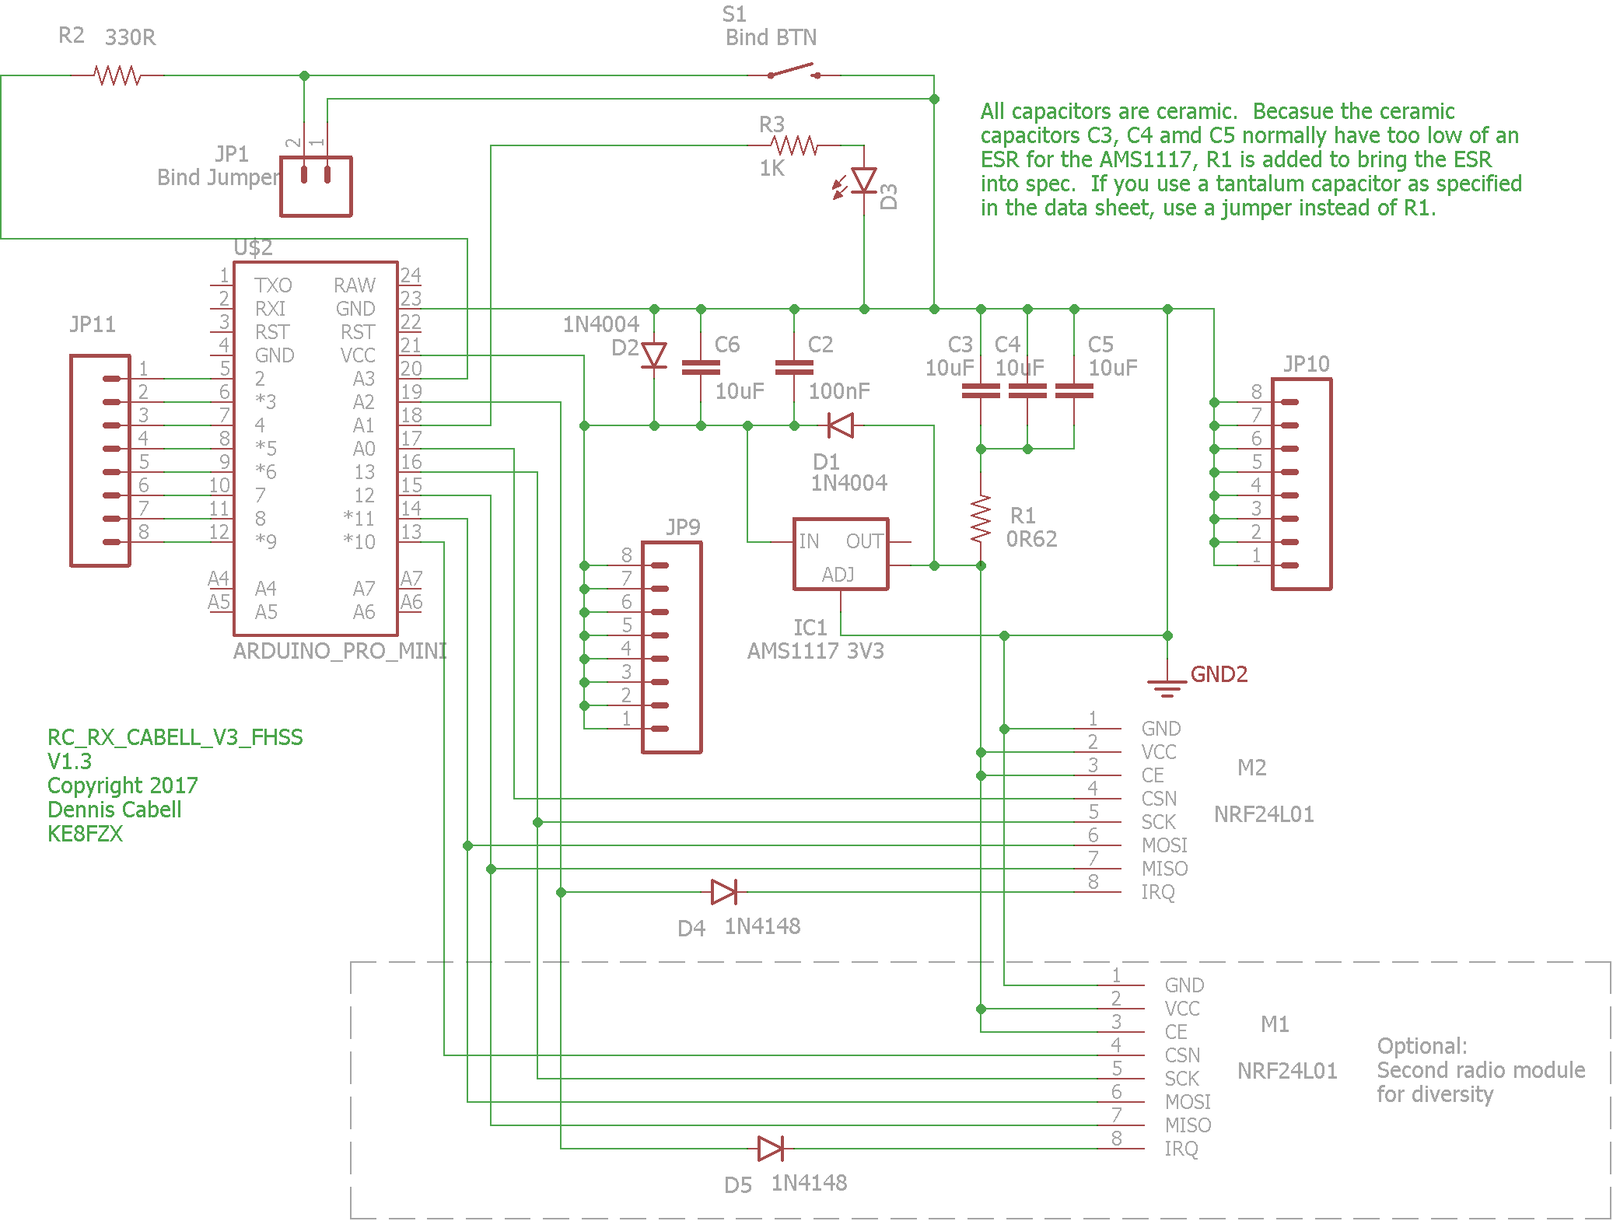
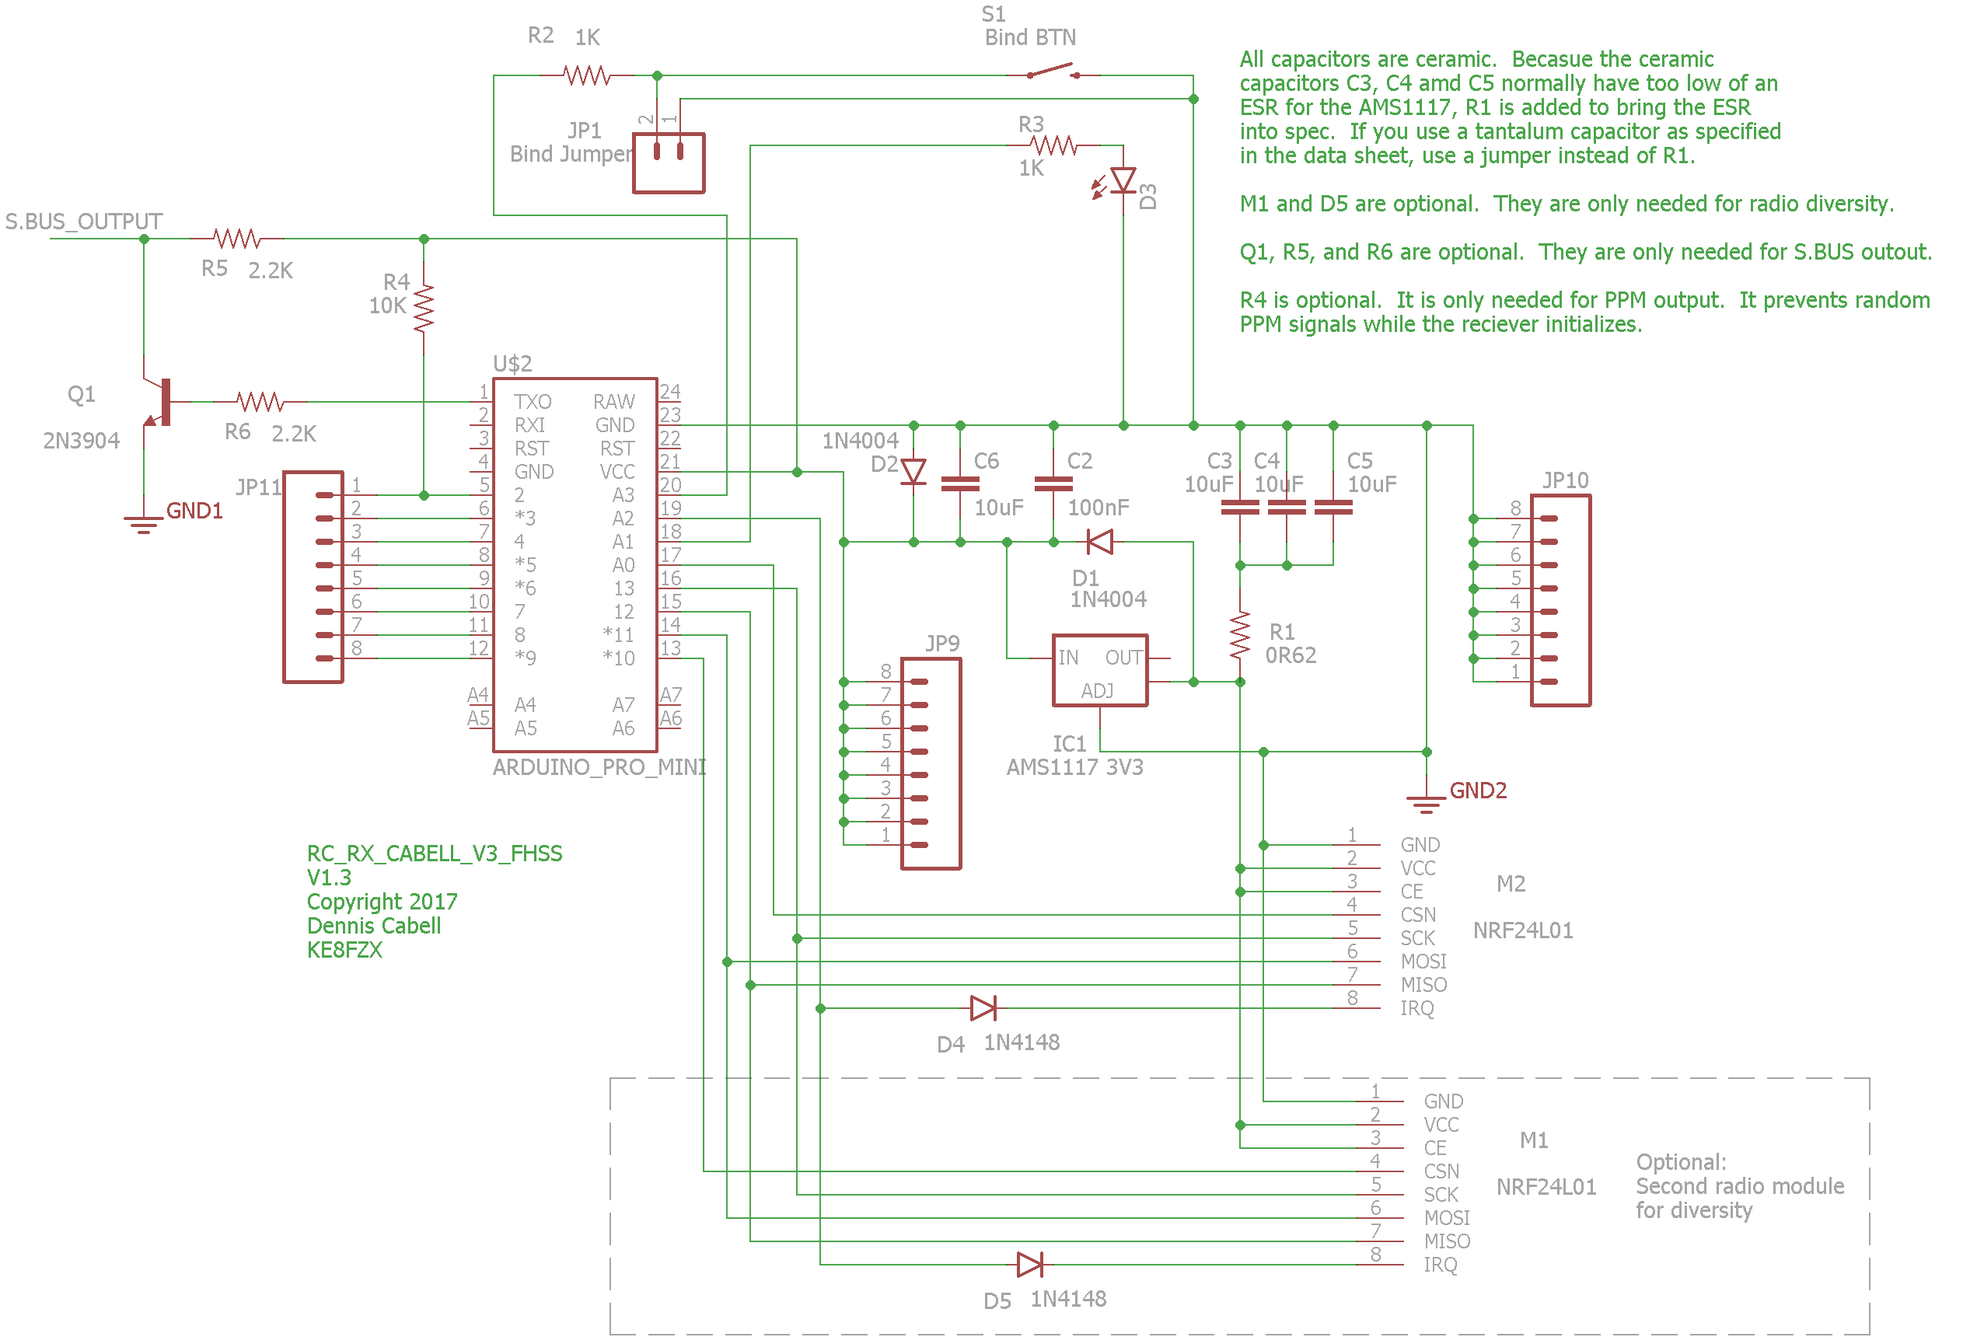
Updated diversity scematic for SBUS

diff --git a/README.md b/README.md
@@ -1,28 +1,28 @@
 # RC_RX_CABELL_V3_FHSS
 ## Background
 RC_RX_CABELL_V3_FHSS is an open source receiver for remote controlled vehicles.  Developed by Dennis Cabell (KE8FZX)
-The hardware for this receiver is an Arduino Pro Mini (using an ATMEGA328P) and an NRF24L01+ module.  Both are inexpensively available on-line.  Be sure to get the version of a Pro Mini that has pins A4, A5, A6 and A7 broken out.
+The hardware for this receiver is an Arduino Pro Mini (using a 5V ATMEGA328P at 16 Mhz) and one or two NRF24L01+ modules.  Both are inexpensively available on-line.  Be sure to get the version of a Pro Mini that has pins A4, A5, A6 and A7 broken out.
 
 ~~The transmitter side of this RC protocol is in the Multi-protocol TX Module project at [https://github.com/pascallanger/DIY-Multiprotocol-TX-Module]( https://github.com/pascallanger/DIY-Multiprotocol-TX-Module).~~
-Transmitter code has not yet been merged into Multiprotocol.  To try this out, please use the soligen2010 fork of MultiProtocol at [https://github.com/soligen2010/DIY-Multiprotocol-TX-Module]( https://github.com/soligen2010/DIY-Multiprotocol-TX-Module)
+Transmitter code has not yet been merged into Multiprotocol.  To try this out, please use the soligen2010 fork of MultiProtocol at [https://github.com/soligen2010/DIY-Multiprotocol-TX-Module]( https://github.com/soligen2010/DIY-Multiprotocol-TX-Module).
 
 ## The Protocol
 The protocol used is named CABELL_V3 (the third version, but the first version publicly released).  It is a FHSS protocol using the NRF24L01+ 2.4 GHz transceiver.  45 channels are used from 2.403 through 2.447 GHz.  The reason for using 45 channels is to keep operation within the overlap area between the 2.4 GHz ISM band (governed in the USA by FCC part 15) and the HAM portion of the band (governed in the USA by FCC part 97).  This allows part 15 compliant use of the protocol, while allowing licensed amateur radio operators to operate under the less restrictive part 97 rules if desired.
 
-Each transmitter is assigned a random ID (this is handled by the Multi-protocol TX Module) based on this ID one of 362880 possible channel sequences is used for the frequency hopping.  The hopping pattern algorithm ensures that each hop moves at least 9 channels from the previous channel.  One packet is sent every 3 milliseconds, changing channels with each packet. All 45 channels are used equally.
+Each transmitter is assigned a random ID (this is handled by the Multi-protocol TX Module) based on this ID one of 362880 possible channel sequences is used for the frequency hopping.  The hopping pattern algorithm ensures that each hop moves at least 9 channels from the previous channel.  One packet is sent every 3 - 4 milliseconds (depending on options chosen), changing channels with each packet. All 45 channels are used equally.
 
-The CABELL_V3 protocol can be configured to send between 4 and 16 RC channels, however this receiver software is currently only capable of outputting up to 8 channels.  This is because only 8 channels were conveniently laid out on the Arduino Pro Mini, and more than 8 channels over PPM would be too slow.  Future serial output methods (SBus?) will hopefully allow all 16 channels to be used.
+The CABELL_V3 protocol can be configured to send between 4 and 16 RC channels, however this receiver software is currently only capable of outputting up to 8 channels via PWN or PPM.  This is because only 8 channels were conveniently laid out on the Arduino Pro Mini, and more than 8 channels over PPM would be too slow.  SBUS output allows all 16 channels to be used.
 
 I recommend reducing the number of channels as much as possible based on what your model requires.  Fewer channels will use a smaller packet size, which improves transmission reliability (fewer bytes sent means less opportunity for errors).
 
 The protocol also assigns each model a different number so one model setting does not control the wrong model.  The protocol can distinguish up to 255 different models, but be aware that the multiprotocol transmitter software only does 16.
 
 ## Hardware
-An Arduino Pro Mini and an NRF24L01+ module are needed for this receiver.  Be sure to get the version of a Pro Mini that has pins A4 and A5 broken out (and A6, A7 too for telemetry analog inputs).  The hardware folder contains a schematic and a PCB layout using a single transceiver module; however this version of the PCB has not been tested.  I am still using the previous version of the PCB and modifying it to implement the changes included in the new version. If anyone tries this PCB version, please open an issue let me know how it works.
+A 5V 16Mhz Arduino Pro Mini and one or 2 NRF24L01+ modules are needed for this receiver.  Be sure to get the version of a Pro Mini that has pins A4 and A5 broken out (and A6, A7 too for telemetry analog inputs).  The hardware folder contains a schematic and a PCB layout using a single transceiver module for PWN or PPM output; however, this version of the PCB has not been tested.  I am still using the previous version of the PCB and modifying it to implement the changes included in the new version. If anyone tries this PCB version, please open an issue let me know how it works. 
 
-There is also a schematic for using 2 NRF24L01 modules for diversity.  If anyone designs a board for this, please contribute it.
+There is also a schematic for using 2 NRF24L01 modules for diversity.  If anyone designs a board for this, please contribute it.  This schematic also has the signal inverter needed for SBUS.
 
-The PA+LNA versions of the NRF24L01+ module provide more receiver range and reliability than the non PA+LNA versions, However the less expensive modules also work OK if the on-board antenna is replaced with a better antenna, although randomly some units see to work well and others not so well.  I recommend range testing each module.  These modules are also typically unshielded, but work better when shielded.  Here is an outline of the modifications (TODO: add pictures)
+The PA+LNA versions of the NRF24L01+ module provide more receiver range and reliability than the non PA+LNA versions, However the less expensive modules also work OK if the on-board antenna is replaced with a better antenna, although randomly some units seem to work well and others not so well.  I recommend range testing each module.  These modules are also typically unshielded, but work better when shielded.  Here is an outline of the modifications (TODO: add pictures)
 
 #### Antenna
 * For the PA_LNA module that has an SMA Connector, remove the connector. A small butane torch to heat the connector works well.  When the solder melts, it pulls right off 
@@ -34,34 +34,37 @@ The PA+LNA versions of the NRF24L01+ module provide more receiver range and reli
 * Solder the coax to the board.  Use hot glue to fix the coax to the board as strain relief.
 * On the other end of the coax, strip back and remove the braided ground conductor to leave the center wire exposed to form the antenna. Leave the inner wire insulation on.
 
-I am no expert, but based on the best understand I have been able to achieve on the theory, using RG-178 or RG-316 (both have speed factor of 69.5) the calculated theoretical lengths to use are:
+I am no expert, but based on the best understand I have been able to achieve on the theory, using RG-178 or RG-316 (both have speed factor of 69.5) the calculated theoretical coax lengths to use are:
 * For the shielded portion of the coax, ideally make the length a multiple of 42.5 mm.  170mm seems like a good length. 
 * The length of the antenna at the end should theoretically be 32.5mm (based on center frequency of 2.425 GHz.  I don’t have the proper equipment to verify these lengths, experiment for what works best for you.  My tests showed 32mm seems to work better than 32.5 for a monopole antenna.
 
-The antennas that come with the PA/LNA modules on EBay are often not very good.  Get a good antenna for yout transmitter.  For the transmitter I use a 5dbi antenna constructed as recommend by Andrew McNeil at https://www.youtube.com/watch?v=bs8hvXGJdhM
+The antennas that come with the PA/LNA modules on EBay are often not very good.  Get a good antenna for your transmitter.  For the transmitter I use a 5dbi antenna constructed as recommend by Andrew McNeil at [https://www.youtube.com/watch?v=bs8hvXGJdhM](https://www.youtube.com/watch?v=bs8hvXGJdhM).  Good RX and TX antennas make a big difference to performance.
 
 #### Shielding
 Shielding will require using 2 layers of heat shrink tubing around the whole module.  
 
 * First solder a bare wire onto a ground point on the board.
 * Encase as much of the board as possible in heat shrink tubing, leaving the antenna and ground wire sticking out, and don’t cover the pins.
-* Use copper tape to wrap the module as much as possible on the heat shrink tubing, while staying away from the edge of the heat shrink.
+* Use copper tape to wrap the module as much as possible on the heat shrink tubing, while staying away from the edge of the heat shrink. (Aluminum  tape can work too, but you cant solder to it.)
 * Bend the ground wire back over the copper tape and solder it to the copper tape.
 * Encase as much of the board as possible again in heat shrink tubing.  Don’t cover the pins. Be sure to cover all the ground wire and copper tape shielding.
 
+These shielding steps are based partially  in the article at [http://blog.blackoise.de/2016/02/fixing-your-cheap-nrf24l01-palna-module/](http://blog.blackoise.de/2016/02/fixing-your-cheap-nrf24l01-palna-module/)
+
 ## Receiver Output
-The output method is controlled via the option byte in the protocol header.  There are currently 2 options:
+The output method is controlled via the option byte in the protocol header.  See the Taranis Setup section for  more details.
 * Sum PPM on Arduino pin D2 (the Roll pin). The channel sequence is AETR, more specifically Roll, Pitch, Throttle, Yaw, AUX1, AUX2, AUX3, AUX4.
-* Individual channel output on pins D2 through D9 in the sequence Roll, Pitch, Throttle, Yaw, AUX1, AUX2, AUX3, AUX4.
+* Individual PWM channel output on pins D2 through D9 in the sequence Roll, Pitch, Throttle, Yaw, AUX1, AUX2, AUX3, AUX4.
+* SBUS (__Experimental__) output on the TX pin through an inverter.  The channel sequence is AETR, more specifically Roll, Pitch, Throttle, Yaw, AUX1, AUX2, AUX3, AUX4, AUX5, AUX6, AUX7, AUX8, AUX9, AUX10, AUX11, AUX12.  SBUS packets are output every 7 milliseconds.
 
 ## Receiver Setup
 The receiver must be bound to the transmitter. There are several ways for the receiver to enter Bind Mode:
-* A new Arduino will start in bind mode automatically.  Only an Arduino that was flashed for the first time does this.  Re-flashing the software will retain the old binding unless the EEPROM has been erased.
+* A new Arduino will start in bind mode automatically.  Only an Arduino that was flashed for the first time (not previously bound) does this.  Re-flashing the software will retain the old binding unless the EEPROM has been erased.
 * Erasing the EEPROM on the Arduino will make it start up in bind mode just like a new Arduino. The Arduino sketch [here]( https://github.com/soligen2010/Reset_EEPROM) will erase the EEPROM.
 * Connect the Bind Jumper, or press the Bind button while the receiver powers on.
 * The protocol has a Un-bind command (it erases the EEPROM), after which a re-start will cause the receiver to enter bind mode just like a new Arduino. After an Unbind the LED will blink until the receiver is re-started.
 
-Turn on the transmitter in bind mode.  The LED turn on solid, then will blink slowly after a successful bind.  Re-start the receiver after the bind and take the transmitter out of Bind mode, then test the connection.
+Turn on the transmitter in bind mode.  The LED turns on solid, then will blink slowly after a successful bind.  Re-start the receiver after the bind and take the transmitter out of Bind mode, then test the connection.
 
 ## Fail-safe
 The receiver fail-safes after 1 second when no packets are received.  If a connection is not restored within 3 seconds then the receiver will disarm.  
@@ -75,22 +78,39 @@ __Do not set fail-safe values while in flight.__  Due to the length of time it t
 
 Fail-safe set mode will set the fail-safe values.  This can be done one of two ways:
 * A set-Fail-Safe packet can be sent from the transmitter.  The values from the first packet in a series for set-Fail-Safe packets are saved as the new fail-safe values.  The LED is turned on when a set-Fail-Safe packet is received, and stays on as long as set-Fail-Safe packets continue to be received.  The LED is turned off when set-Fail-Safe values stop being received
-* After the receiver has initialized, the bind button (or use bind jumper) can be held for one to 2 seconds until the LED is turned on.  The values from the first packet received after the LED is turned on will be saved as the new fail-safe values.  The LED will turn off when the button is released (or jumper removed).
+* After the receiver has initialized, the bind button (or bind jumper) can be held for one to 2 seconds until the LED is turned on.  The values from the first packet received after the LED is turned on will be saved as the new fail-safe values.  The LED will turn off when the button is released (or jumper removed).
 
-When fail-safe set mode is entered the LED is turned on and stays on until the failsafe set mode is exited.  Only the values from the first packet received in fail-safe set mode are saved (this is to avoid accidentally using up all of the EEPROMs limited number of write operations)
+When fail-safe set mode is entered, the LED is turned on and stays on until the failsafe set mode is exited.  Only the values from the first packet received in fail-safe set mode are saved (this is to avoid accidentally using up all of the EEPROMs limited number of write operations)
 
 Values for all channels can be set except for the throttle channel.  The fail-safe for throttle is always the minimum throttle.
 
 ## Diversity
-Diversity is achieved by using 2 NRF24L01 modules.  This improves link reliability and Try to orient the antennas close to 90 degrees to each other so at least one antenna has a good orientation to the transmitter antenna.  The use of a second NRF24L01 module for diversity is optional.  The code automatically detects if one or 2 modules are connected.  See the "with diversity" schematic in the hardware folder for how to wire the NRF24L01 modules.
+Diversity is achieved by using 2 NRF24L01 modules, which improves link reliability. Try to orient the antennas close to 90 degrees to each other so at least one antenna has a good orientation to the transmitter antenna.  The use of a second NRF24L01 module for diversity is optional.  The code automatically detects if one or 2 modules are connected.  See the "with diversity" schematic in the hardware folder for how to wire the NRF24L01 modules.
 
-Both modules listen for an incoming packet.  If the primary receiver does not get a packet when expected, the secondary receiver is checked for the missed packet.  After each packet the primary/secondary recievered are swapped, except in the case where only the primary receiver had the packet, in which case this receiver will retain the primary role.  Telemetry packets are transmitted using the same receiver that was used to read the packet.  If both recievers got the incoming packet, then the packet in the secondary receiver is discarded.
+Both modules listen for an incoming packet.  If the primary receiver does not get a packet when expected, the secondary receiver is checked for the missed packet.  After each packet, the primary/secondary receivers are swapped, except in the case where only the primary receiver had the packet, in which case this receiver will retain the primary role.  Telemetry packets are transmitted using the same receiver that was used to read the packet.  If both receivers got the incoming packet, then the packet in the secondary receiver is discarded.  The net effect is that the receivers alternate with each packet, except when only one receiver is receiving, in which case that receiver continues to be used for both the primary receiver and telemetry transmit.
 
-## Taranis Setup using Multiprotocol Module
+## Taranis Setup using Multi-Protocol Module
 Needs work
 
 ## Telemetry
-Needs work
+
+When the sub-protocol is set to Normal with Telemetry, the receiver sends telemetry packets back to the transmitter.  Three values are returned, a simulated RSSI, and the voltages on the Arduino pins A6 and A7.  A receiver module with diversity is recommended when using telemetry to increase the reliability of the telemetry packets being received by the transmitter.
+
+### RSSI
+
+Because the NRF24L01 does not have an RSSI feature, the RSSI value is simulated based on the packet rate.  The base of the RSSI calculation is the packet success rate from 0 to 100.  This value is re-calculated approximately every 1/2 second (every 152 expected packets).  This success percentage is then modified in real time based on packets being missed, so that if multiple packets in a row are missed the RSSI value drops without having to wait for the next re-calculation of the packet rate.
+
+In practice, the packet rate seems to stay high for a long range, then drop off quickly as the receiver moves out of range.  Typically, the telemetry lost warning happens before the RSSI low warning.
+
+The RSSI class encapsulates the RSSI calculations. If you are so inclined, feel free play with the calculation. If anyone finds an algorithm that works better, please contribute it. 
+
+### Analog Values
+
+Analog values are read on Arduino pins A6 and A7.  Running on a, Arduino with VCC of 5V, only values up to 5V can be read.  __A value on A6 or A7 over the Arduino VCC will cause  damage__, so care must be taken to ensure the voltage is in a safe range.
+
+Values from pins A6 and A7 come into a Taranis transmitter as telemetry values A1 and A2.  You can use either of these to read battery voltage or the output of current sensor.  The following article explains how to input battery voltage to A2 on an Frsky receiver using a voltage divider.  The same method can be used to read battery voltage on this receiver.  [http://olex.biz/tips/lipo-voltage-monitoring-with-frsky-d-receivers-without-sensors](http://olex.biz/tips/lipo-voltage-monitoring-with-frsky-d-receivers-without-sensors).
+
+The values sent are 0 - 255 corresponding to 0V - 5V.  This will need to be re-scaled to the actual voltage (or current, etc.) in the transmitter on the telemetry  configuration screen.
 
 ## Packet Format
 
@@ -101,17 +121,17 @@ typedef struct {
          normal                 = 0,  // 250 kbps
          bind                   = 1,
          setFailSafe            = 2,
-         normalWithTelemetry    = 3,  // Experimental.  1 Mbps
+         normalWithTelemetry    = 3,  
          telemetryResponse      = 4,
          unBind                 = 127
    } RxMode;
    uint8_t  reserved = 0;
    uint8_t  option;
-                          /*   mask 0x0F    : Channel reduction.  The number of channels to not send (subtracted frim the 16 max channels) at least 4 are always sent
-                           *   mask 0x30>>4 : Reciever outout mode
+                          /*   mask 0x0F    : Channel reduction.  The number of channels to not send (subtracted from the 16 max channels) at least 4 channels are always sent.
+                           *   mask 0x30>>4 : Receiver output mode
                            *                  0 (00) = Single PPM on individual pins for each channel 
                            *                  1 (01) = SUM PPM on channel 1 pin
-                           *                  2 (10) = Future use.  Reserved for SBUS output
+                           *                  2 (10) = SBUS output (Experimental)
                            *                  3 (11) = Unused
                            *   mask 0x40>>6   Contains max power override flag for Multiprotocol TX module. Also sent to RX
                            *                  The RX uses MAX power when 1, HIGH power when 0
